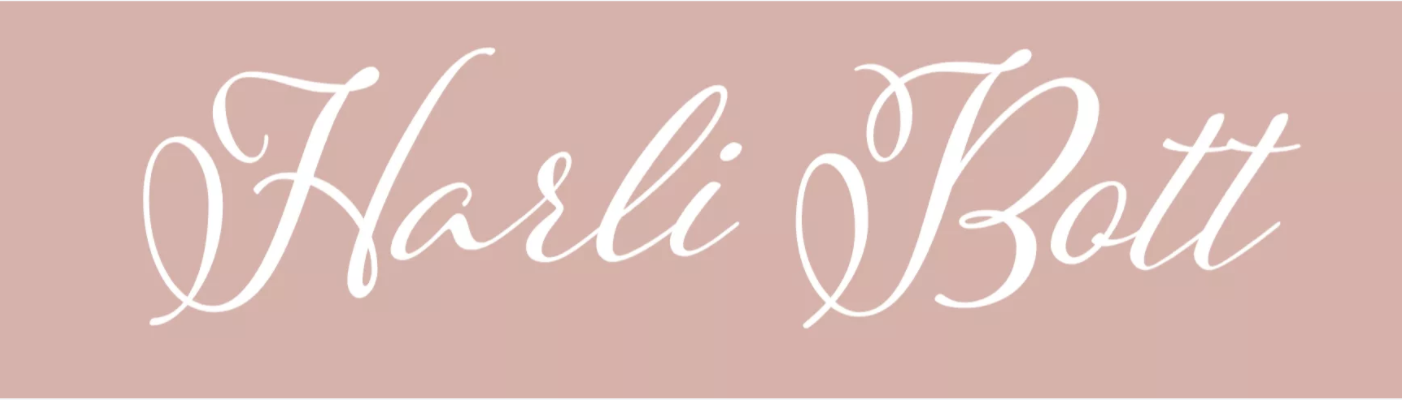
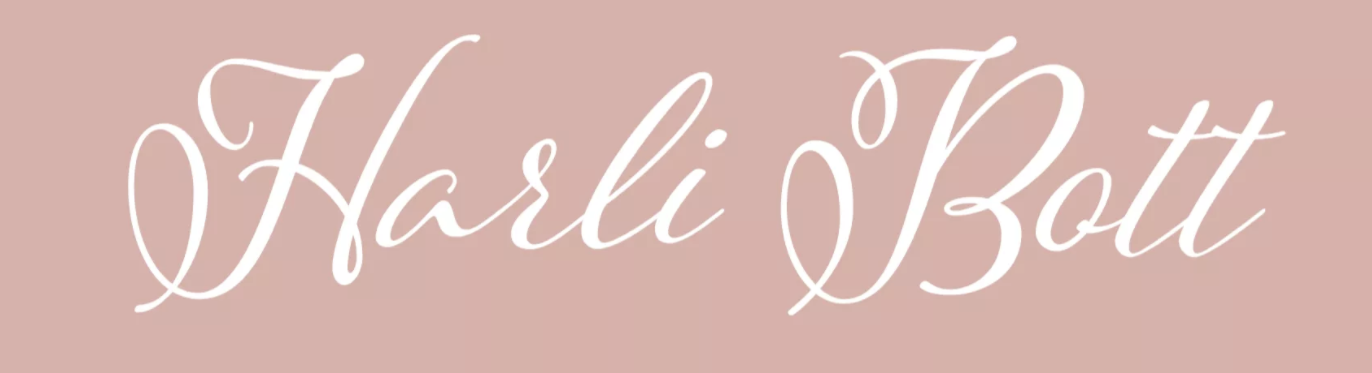
Updated header

Changed region(s): [[0.0918, 0.0885, 0.949, 0.8552], [0.0, 0.9732, 1.0, 1.0], [0.4286, 0.1769, 0.5204, 0.5013]]

diff --git a/index.html b/index.html
@@ -4,8 +4,6 @@
    <link rel="stylesheet" type="text/css" href="style.css">
 </head>
 <body>
-<h2> Harli Bott</h2>
-<p> I am hosted with GitHub Pages.</p>
-<img src="header.png" alt="Harli Bott">
+<img id="head" src="header.png"  alt="Harli Bott" />
 </body>
 </html>

diff --git a/style.css b/style.css
@@ -1,0 +1,11 @@
+body {
+ margin: 0;
+ padding: 0;
+ background-color: rgb(222,174,169);
+}
+#head {
+ position: absolute;
+ width: 1000px;
+ height: 200px;
+text-align: center;
+}
